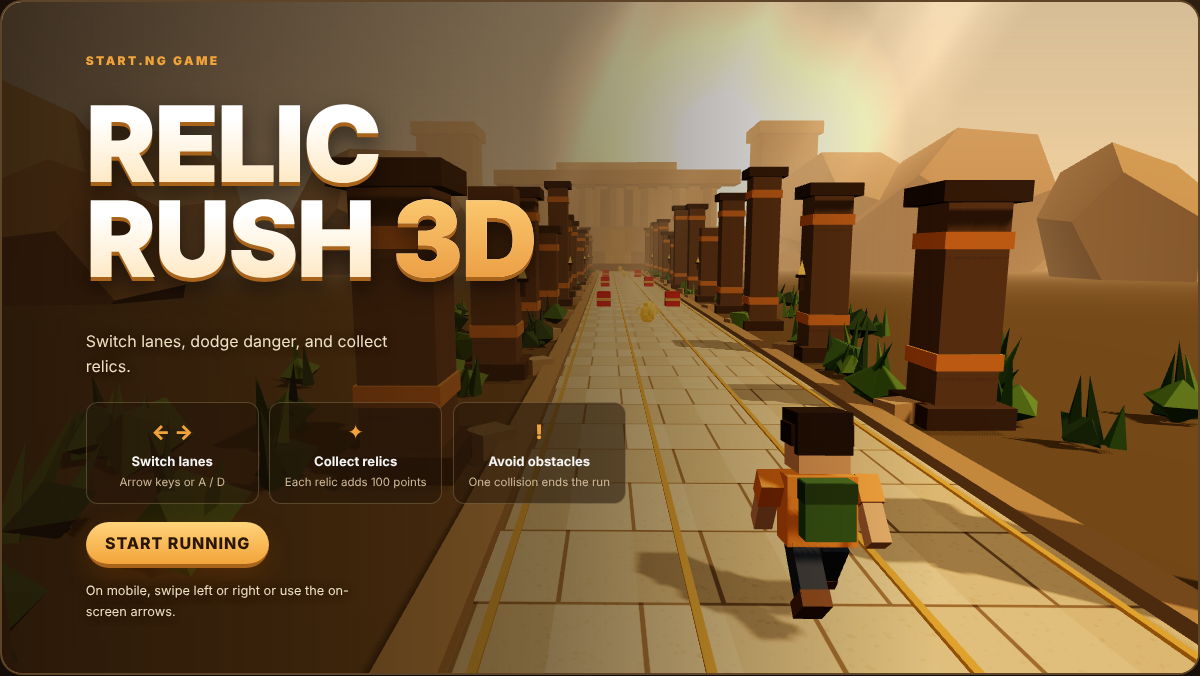
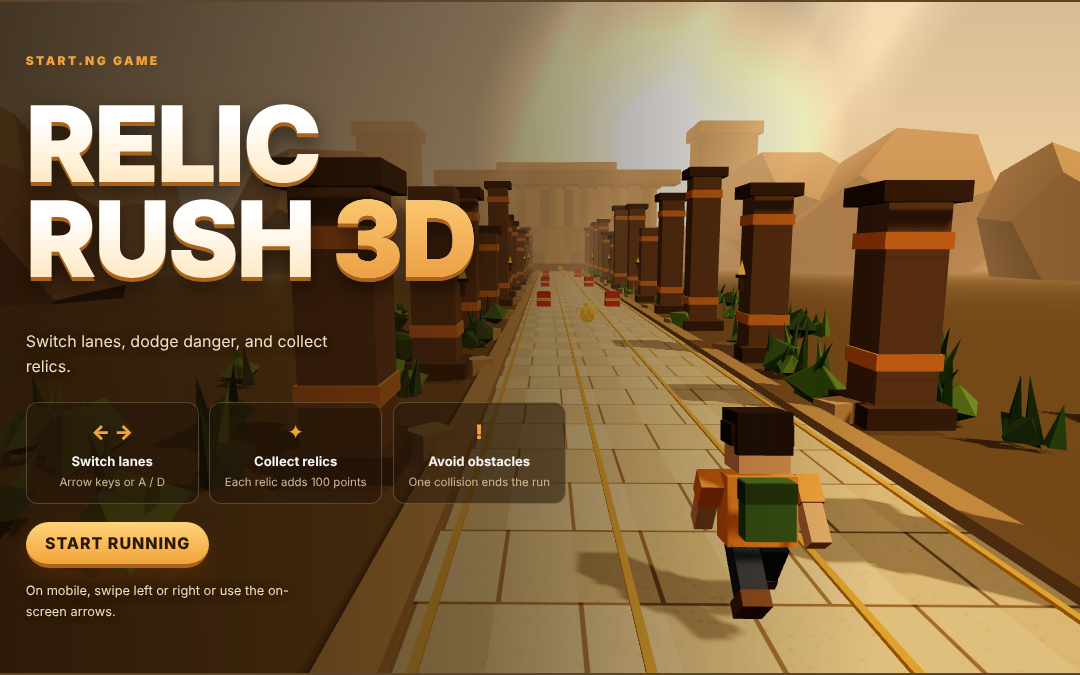
conflic resolved

diff --git a/dist/assets/index.html b/dist/assets/index.html
@@ -1,0 +1,18 @@
+<!doctype html>
+<html lang="en">
+  <head>
+    <meta charset="UTF-8" />
+    <meta name="viewport" content="width=device-width, initial-scale=1.0" />
+    <meta
+      name="description"
+      content="Relic Rush 3D is a three-lane endless runner built for Start.ng."
+    />
+    <meta name="theme-color" content="#1a110a" />
+    <title>Relic Rush 3D</title>
+    <script type="module" crossorigin src="./assets/index-r7rzZPl7.js"></script>
+    <link rel="stylesheet" crossorigin href="./assets/index-OZ2m2SXT.css">
+  </head>
+  <body>
+    <div id="app"></div>
+  </body>
+</html>
